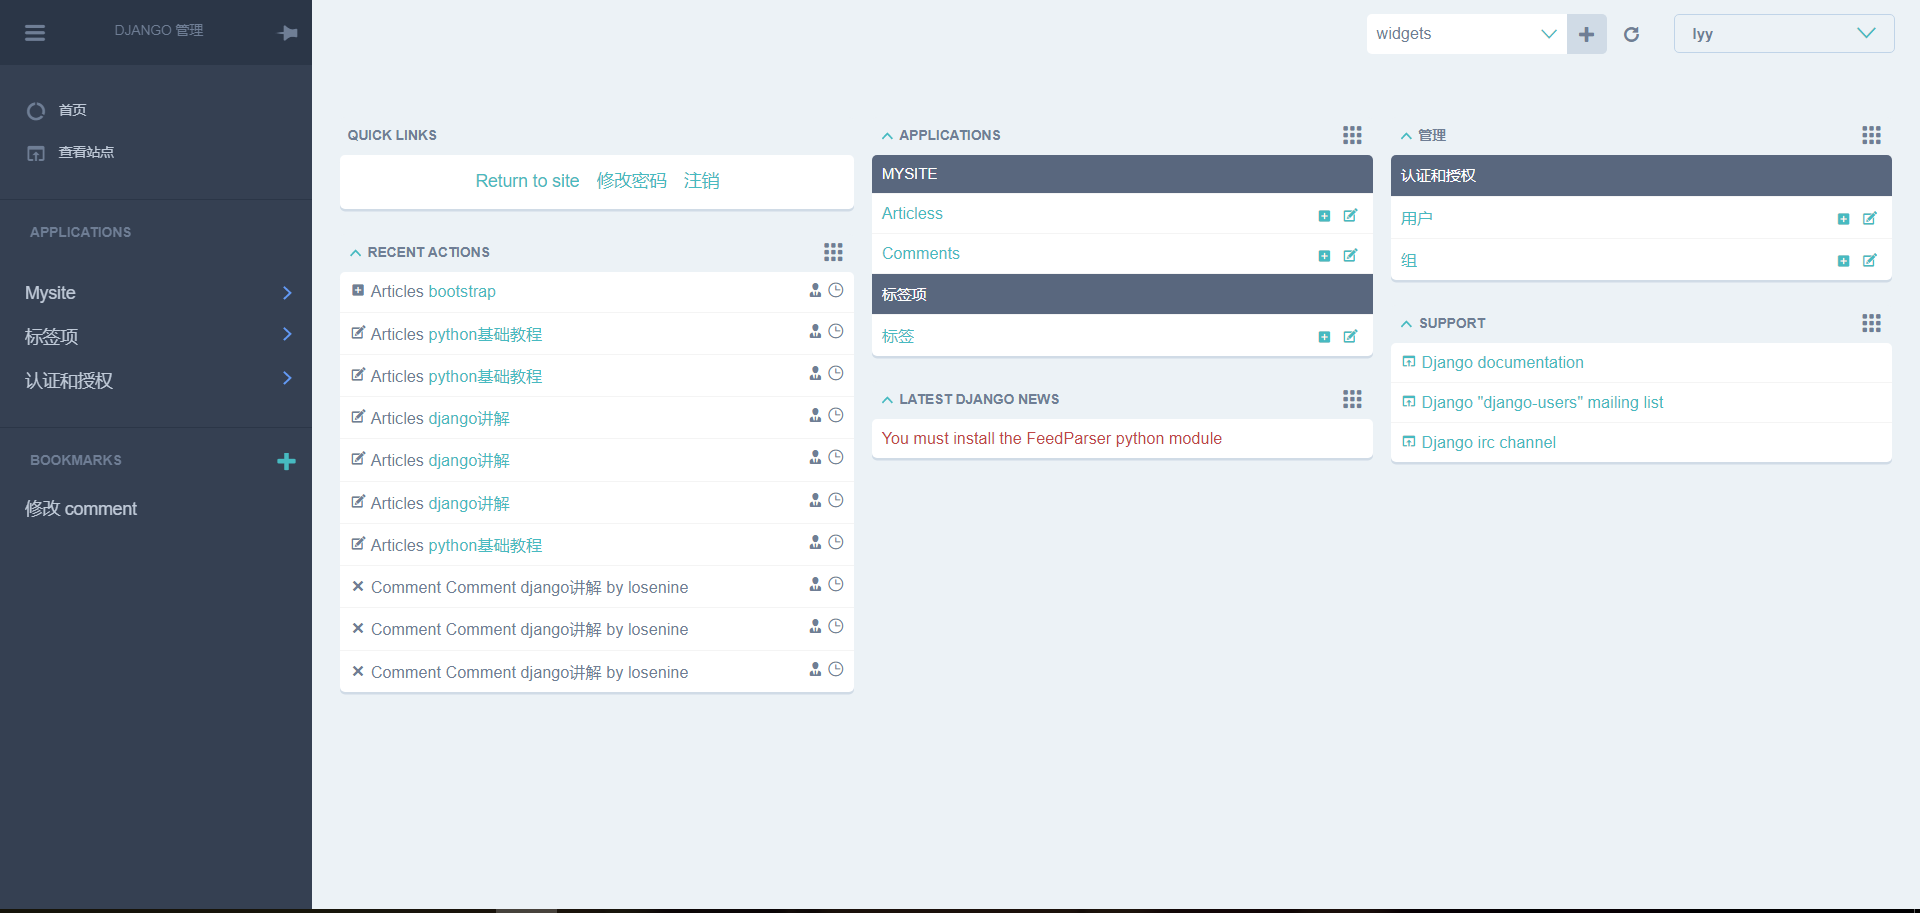
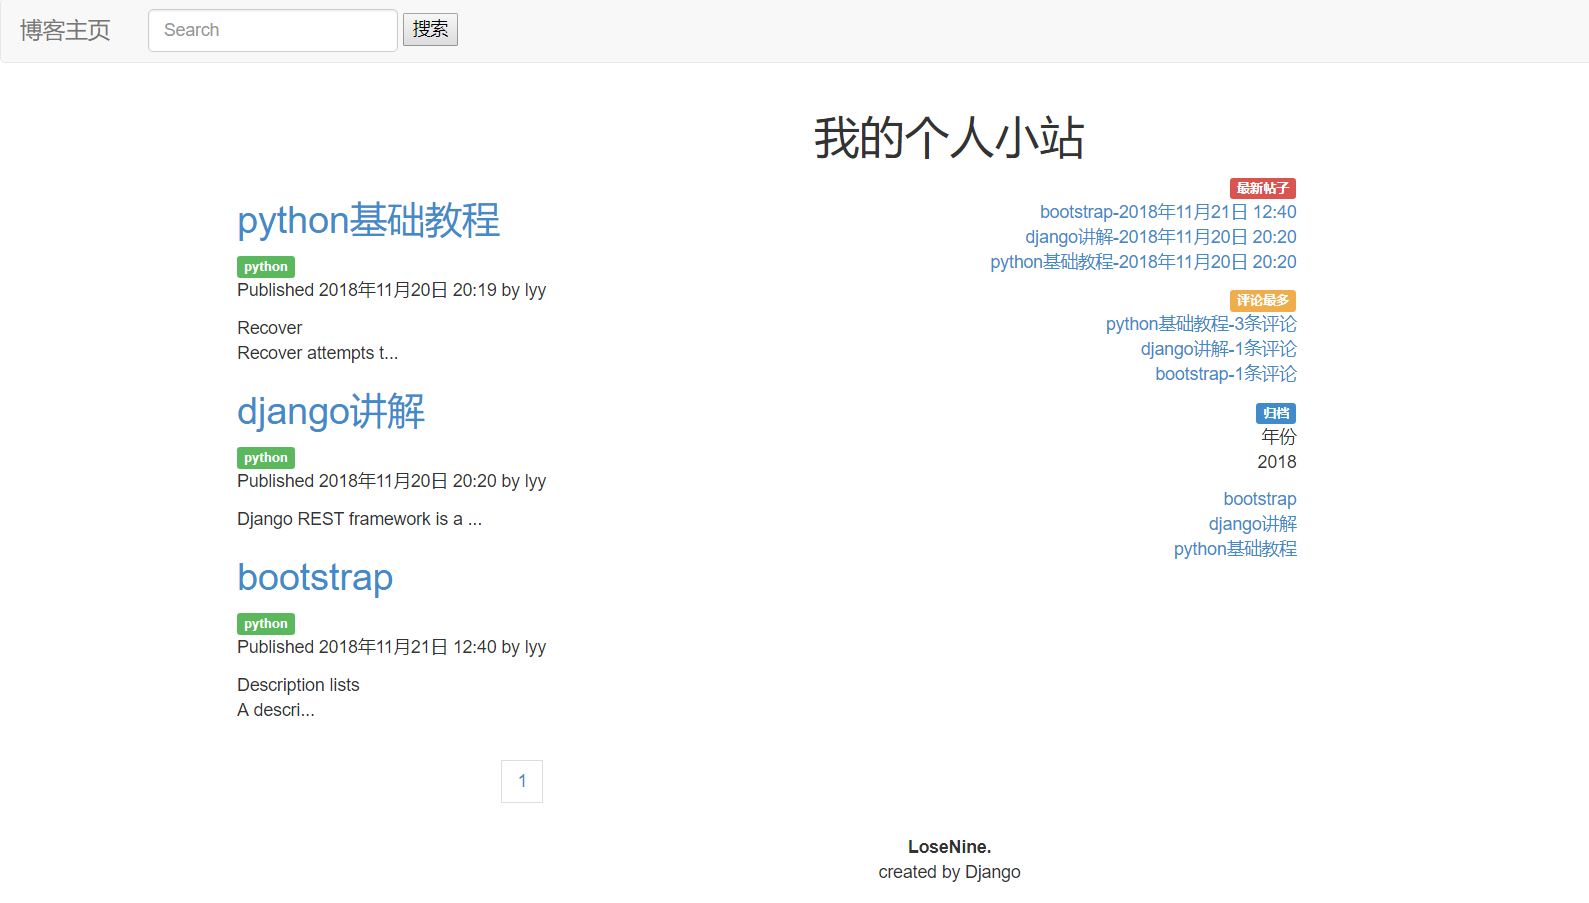
增加按年份归档

diff --git a/templates/mysite/date_article.html b/templates/mysite/date_article.html
@@ -1,0 +1,18 @@
+{% load mysite_tags %}
+<div class="text-right">
+    <span class="label label-primary">归档</span>
+    <ul>
+    {% for y in year %}
+        <ul>年份<p>{{ y }}</p>
+            {% for a in date_articles %}
+                {% if a.created_time.year == y %}
+                    <li class=" text-right list-unstyled">
+                     <a href="{% url 'mysite:articledetial' a.slug %}">{{ a.title}}</a>
+                    </li>
+                {% endif %}
+            {% endfor %}
+        </ul>
+    {% endfor %}
+
+</ul>
+</div>

diff --git a/templates/mysite/mostcomment_article.html b/templates/mysite/mostcomment_article.html
@@ -1,6 +1,7 @@
 {% load mysite_tags %}
 <div class="text-right">
-    评论最多
+
+<span class="label label-warning">评论最多</span>
     <ul>
     {% for post in mostcomment_articles %}
      <li class=" text-right list-unstyled">

diff --git a/templates/mysite/latest_article.html b/templates/mysite/latest_article.html
@@ -1,5 +1,6 @@
 <div class="text-right">
-    最新帖子
+
+<span class="label label-danger">最新帖子</span>
     <ul>
     {% for post in latest_article %}
      <li class=" text-right list-unstyled">

diff --git a/templates/mysite/articleList.html b/templates/mysite/articleList.html
@@ -24,4 +24,7 @@
     <section class="col-md-4">
     {% mostcomment_articles %}
     </section >
+    <section class="col-md-4">
+    {% date_articles %}
+    </section >
 {% endblock %}

diff --git a/mysite/templatetags/mysite_tags.py b/mysite/templatetags/mysite_tags.py
@@ -23,3 +23,13 @@ def show_latest_articles(count=5):
 def mostcomment_articles(count=5):
     mostcomment_articles=Articles.objects.annotate(total_comments=models.Count('comment')).order_by('-total_comments')[:count]
     return {'mostcomment_articles':mostcomment_articles}
+
+@register.inclusion_tag('mysite/date_article.html')
+def date_articles():
+    date_articles=Articles.objects.all().order_by('-created_time')
+    year=[]
+    for a in date_articles:
+        if a.created_time.year not in year:
+            year.append(a.created_time.year)
+    print(year)
+    return {'date_articles':date_articles,'year':year}
